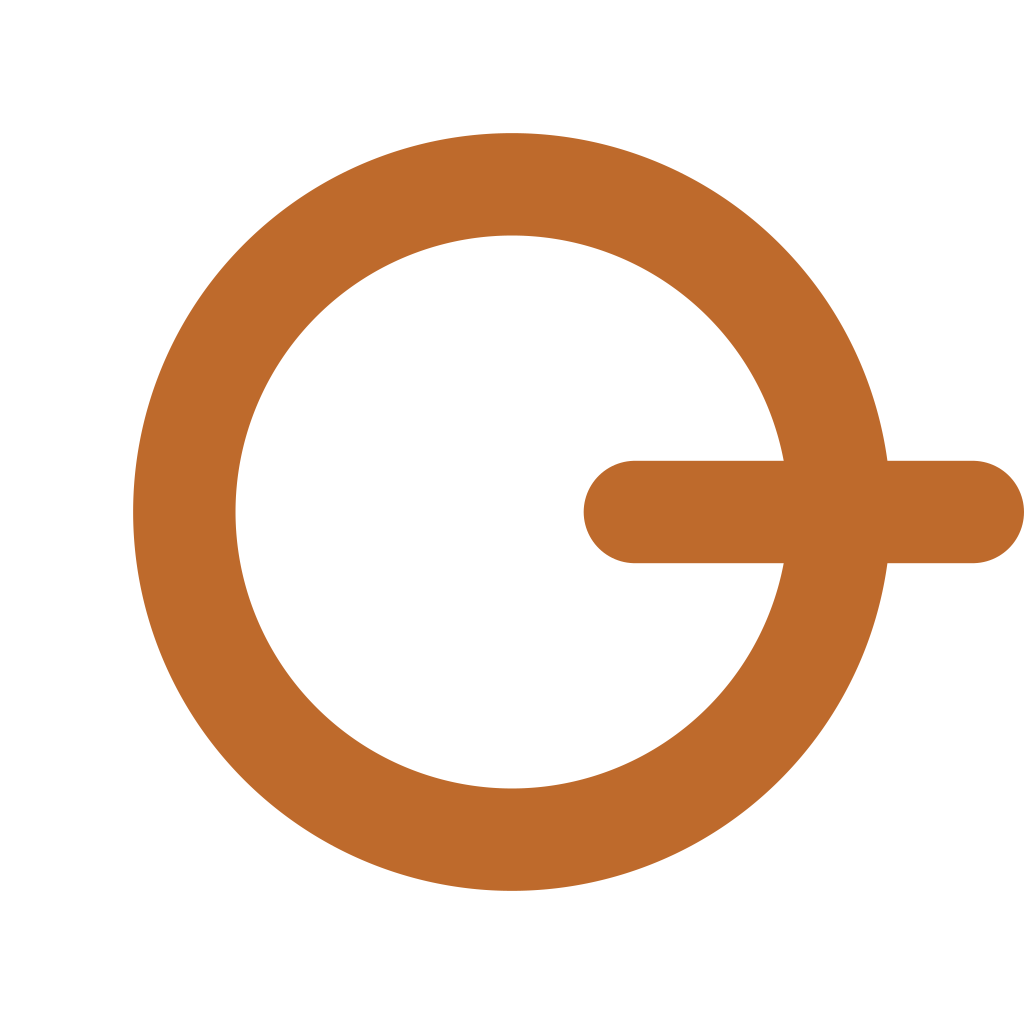
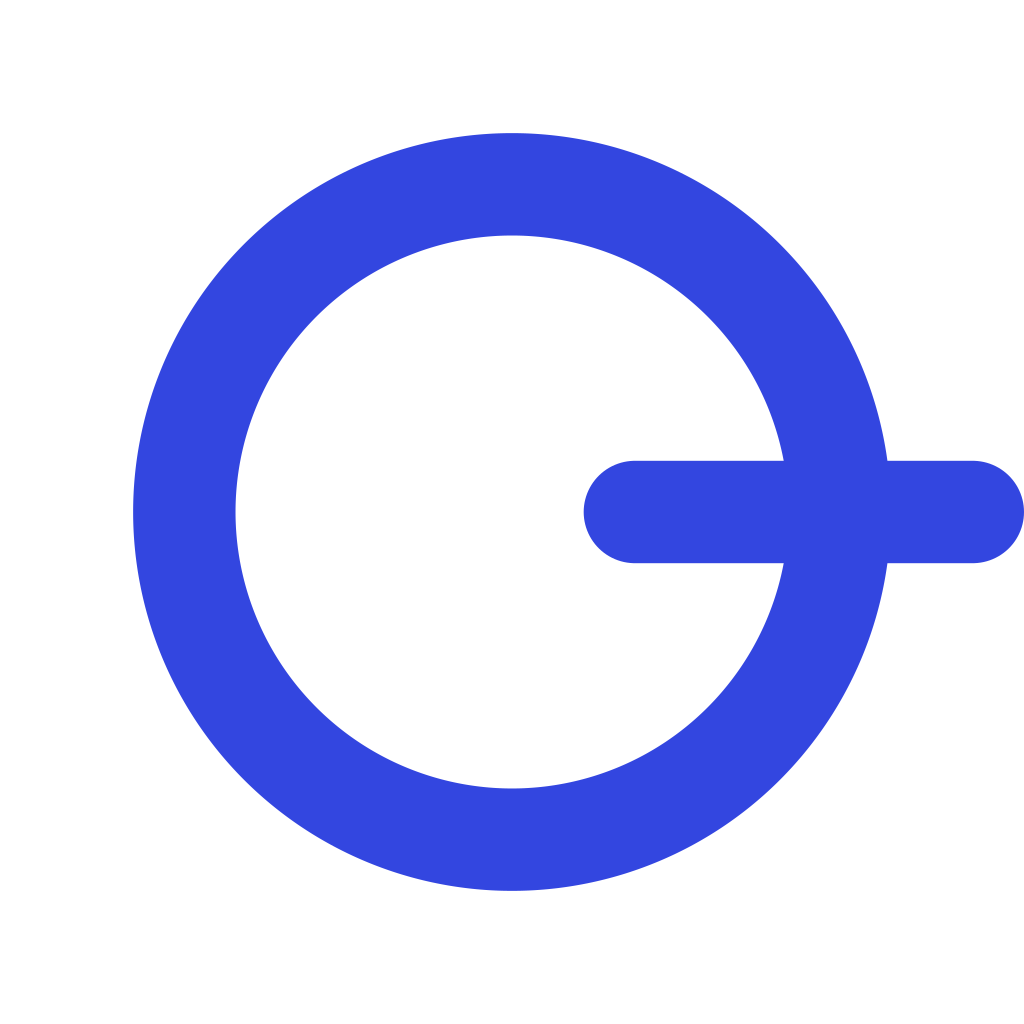
Switch to Ultramarine & Lime palette
- New light and dark tokens; lime used only as the tag highlighter
- Add --on-accent so button text reads on both themes
- Recolour favicons, touch icon and share image to ultramarine

Changed region(s): [[0.125, 0.125, 1.0, 0.875]]

diff --git a/css/style.css b/css/style.css
@@ -1,23 +1,24 @@
 /* ============ Design tokens ============ */
 :root{
-  --bg:#F7F3EC; --surface:#FFFFFF; --surface-alt:#EFE7DA;
-  --text:#1C1712; --text-muted:#6B5F4E;
-  --accent:#C2672A; --accent-ink:#9A4B17; --accent-soft:#F4DFC8;
-  --border:#E6DCCB; --good:#3F7D54;
-  --glow:rgba(194,103,42,.35);
-  --shadow: 0 1px 2px rgba(28,23,18,.06), 0 14px 34px -16px rgba(28,23,18,.24);
+  /* Ultramarine & Lime: lime is a highlighter, never a fill */
+  --bg:#F4F3EE; --surface:#FFFFFF; --surface-alt:#E9E8F2;
+  --text:#14162B; --text-muted:#5C5F78;
+  --accent:#3346E0; --accent-ink:#2433B5; --accent-soft:#DDE1FF;
+  --border:#DFDEE8; --good:#2F7D55; --on-accent:#FFFFFF;
+  --glow:rgba(51,70,224,.30); --highlight:rgba(205,240,90,.85);
+  --shadow: 0 1px 2px rgba(20,22,43,.06), 0 14px 34px -16px rgba(20,22,43,.22);
   --radius: 16px;
   --font-display:'Fraunces', Georgia, serif;
   --font-sans:'Manrope', ui-sans-serif, system-ui, sans-serif;
   color-scheme: light;
 }
 :root[data-theme="dark"]{
-  --bg:#0F0D0B; --surface:#171410; --surface-alt:#1D1913;
-  --text:#F3ECE0; --text-muted:#A89A84;
-  --accent:#F08A45; --accent-ink:#F7A86E; --accent-soft:#3A2617;
-  --border:#2C251C; --good:#79C08E;
-  --glow:rgba(240,138,69,.45);
-  --shadow: 0 1px 2px rgba(0,0,0,.4), 0 16px 40px -18px rgba(0,0,0,.7);
+  --bg:#0B0D1A; --surface:#121528; --surface-alt:#181C34;
+  --text:#EEF0FA; --text-muted:#9EA3C4;
+  --accent:#8E9CFF; --accent-ink:#B7C0FF; --accent-soft:#232A5C;
+  --border:#252A48; --good:#7FD1A0; --on-accent:#0B0D1A;
+  --glow:rgba(142,156,255,.42); --highlight:rgba(200,236,90,.30);
+  --shadow: 0 1px 2px rgba(0,0,0,.4), 0 16px 40px -18px rgba(0,0,0,.75);
   color-scheme: dark;
 }
 @media (prefers-reduced-motion: reduce){
@@ -73,7 +74,7 @@ body.cursor-hover .cursor-ring{width:54px; height:54px; border-color:var(--accen
 .theme-toggle .icon-moon{opacity:0; transform:rotate(-90deg) scale(.5);}
 :root[data-theme="dark"] .theme-toggle .icon-sun{opacity:0; transform:rotate(90deg) scale(.5);}
 :root[data-theme="dark"] .theme-toggle .icon-moon{opacity:1; transform:rotate(0) scale(1);}
-.nav-cta{background:var(--accent); color:#fff; padding:9px 18px; border-radius:8px; font-weight:600; font-size:.92rem; text-decoration:none; transition:transform .25s ease, box-shadow .25s ease;}
+.nav-cta{background:var(--accent); color:var(--on-accent); padding:9px 18px; border-radius:8px; font-weight:600; font-size:.92rem; text-decoration:none; transition:transform .25s ease, box-shadow .25s ease;}
 .nav-cta:hover{transform:translateY(-2px); box-shadow:0 8px 20px -8px var(--accent);}
 @media (max-width:760px){ .navlinks{display:none;} }
 @media (max-width:420px){ .nav-cta{padding:9px 14px; font-size:.84rem;} .brand-word{font-size:1.05rem;} }
@@ -128,7 +129,7 @@ body.cursor-hover .cursor-ring{width:54px; height:54px; border-color:var(--accen
 
 .btn{display:inline-flex; align-items:center; gap:8px; padding:14px 26px; border-radius:10px; font-weight:600; text-decoration:none; font-size:.98rem; position:relative; overflow:hidden; transition:transform .3s cubic-bezier(.2,.8,.2,1), box-shadow .3s ease;}
 .btn span{position:relative; z-index:1;}
-.btn-primary{background:var(--accent); color:#fff; box-shadow:0 10px 26px -14px var(--accent);}
+.btn-primary{background:var(--accent); color:var(--on-accent); box-shadow:0 10px 26px -14px var(--accent);}
 .btn-primary:hover{transform:translateY(-3px); box-shadow:0 16px 32px -14px var(--accent);}
 .btn-secondary{background:transparent; color:var(--text); border:1px solid var(--border);}
 .btn-secondary:hover{transform:translateY(-3px); border-color:var(--accent); color:var(--accent-ink);}
@@ -368,7 +369,7 @@ footer{border-top:1px solid var(--border); padding:32px 0 76px; color:var(--text
 .tag-text{position:relative;}
 .tag-text::after{ /* highlighter sweep on reveal */
   content:""; position:absolute; left:-2px; right:-2px; bottom:1px; height:.45em; z-index:-1;
-  background:color-mix(in srgb, var(--accent) 28%, transparent); border-radius:3px;
+  background:var(--highlight, color-mix(in srgb, var(--accent) 28%, transparent)); border-radius:3px;
   transform:scaleX(0); transform-origin:left; transition:transform .9s cubic-bezier(.22,1,.36,1) .25s;
 }
 .is-visible .tag-text::after{transform:scaleX(1);}

diff --git a/js/main.js b/js/main.js
@@ -178,7 +178,7 @@ const reduceMotion = window.matchMedia('(prefers-reduced-motion: reduce)').match
   function draw(){
     ctx.clearRect(0, 0, w, h);
     const styles = getComputedStyle(document.documentElement);
-    const accent = styles.getPropertyValue('--accent').trim() || '#BE6A2C';
+    const accent = styles.getPropertyValue('--accent').trim() || '#3346E0';
     const radius = 140 * devicePixelRatio;
 
     dots.forEach(d => {
